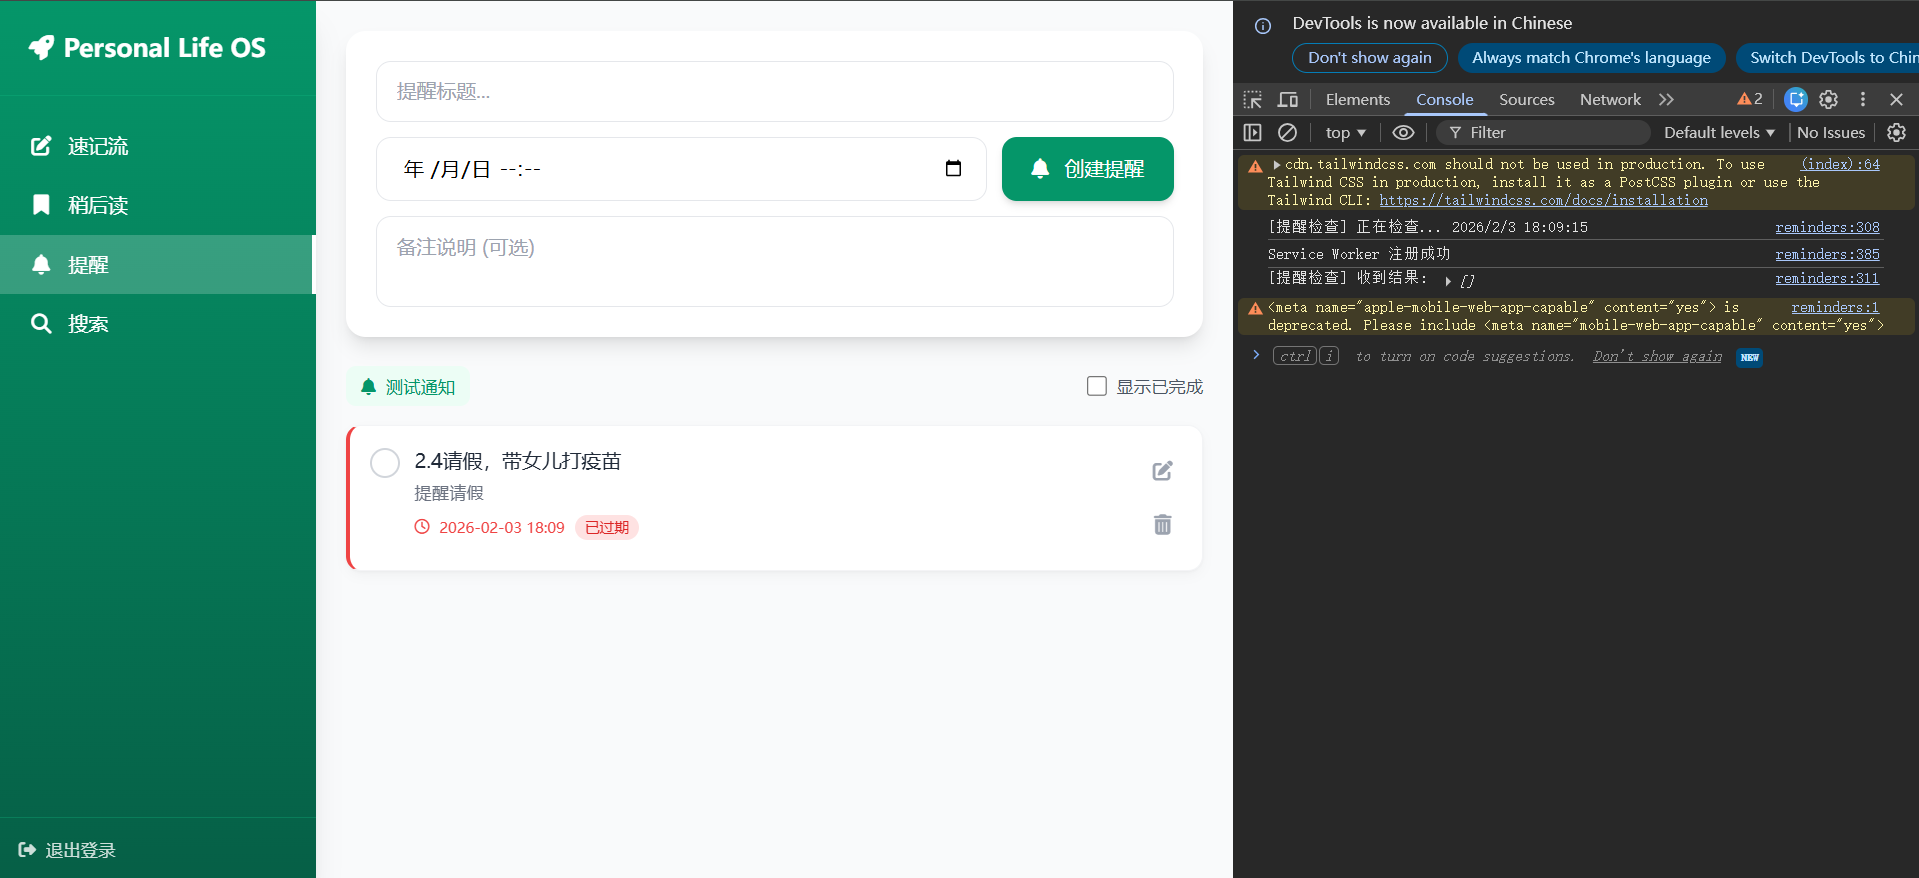
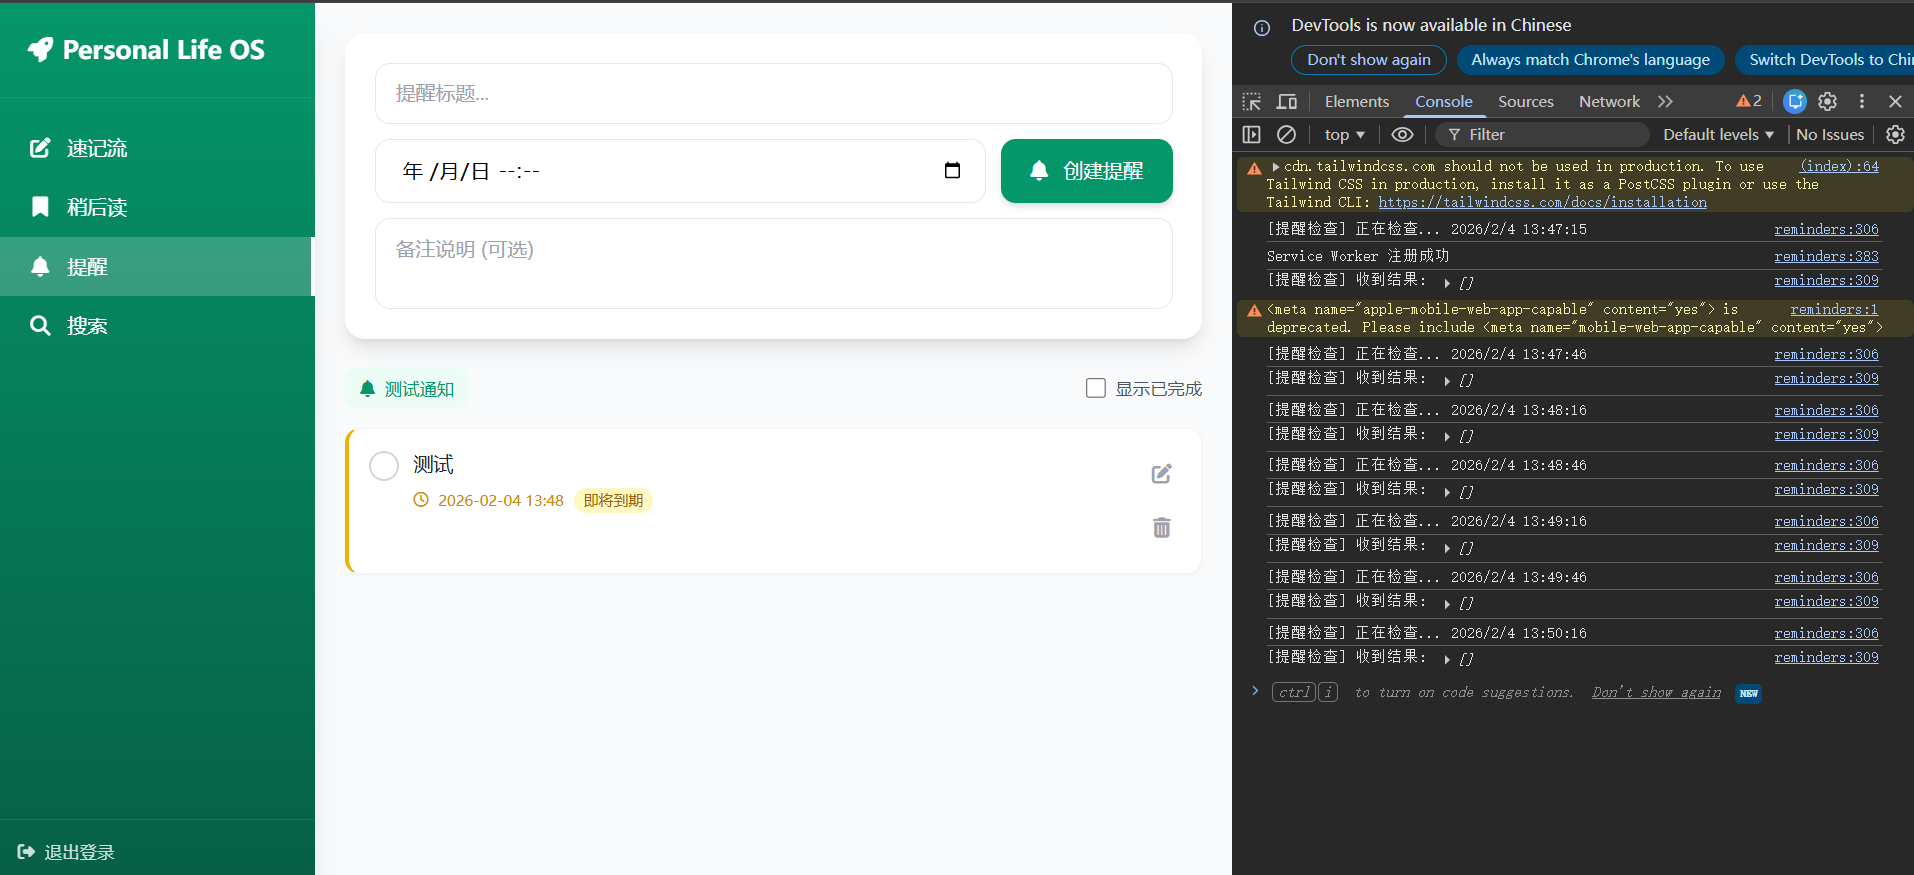
修复多设备提醒通知

diff --git a/templates/base.html b/templates/base.html
@@ -215,8 +215,19 @@
                     const reminders = await response.json();
                     console.log('[提醒检查] 收到结果:', reminders);
 
-                    if (reminders.length > 0) {
-                        reminders.forEach(r => {
+                    // 获取本设备已通知的提醒ID列表
+                    let notifiedIds = JSON.parse(localStorage.getItem('notifiedReminders') || '[]');
+
+                    // 清理过期的已通知记录（只保留最近100个）
+                    if (notifiedIds.length > 100) {
+                        notifiedIds = notifiedIds.slice(-100);
+                    }
+
+                    let hasNewReminder = false;
+                    reminders.forEach(r => {
+                        // 检查这个提醒在本设备是否已通知
+                        const reminderId = `${r.id}-${r.target_time}`;
+                        if (!notifiedIds.includes(reminderId)) {
                             console.log('[提醒检查] 发送通知:', r.title);
                             const sent = this.sendNotification(r.title, r.description);
                             console.log('[提醒检查] 通知发送结果:', sent);
@@ -225,7 +236,17 @@
                             if (!sent) {
                                 alert('⏰ 提醒: ' + r.title + '\n' + (r.description || ''));
                             }
-                        });
+
+                            // 记录已通知
+                            notifiedIds.push(reminderId);
+                            hasNewReminder = true;
+                        }
+                    });
+
+                    // 保存已通知列表
+                    localStorage.setItem('notifiedReminders', JSON.stringify(notifiedIds));
+
+                    if (hasNewReminder) {
                         this.playSound();
                     }
                 } catch (e) {
@@ -294,6 +315,51 @@
 
         // 暴露测试函数供手动调用
         window.testNotification = () => NotificationManager.testNotification();
+
+        // ========== 多设备同步 ==========
+        const SyncManager = {
+            localVersions: {},
+
+            // 检查数据版本
+            async checkVersions() {
+                try {
+                    const response = await fetch('/api/data-version');
+                    const serverVersions = await response.json();
+
+                    // 获取当前页面模块
+                    const path = window.location.pathname;
+                    let currentModule = null;
+                    if (path.includes('/memos')) currentModule = 'memos';
+                    else if (path.includes('/bookmarks')) currentModule = 'bookmarks';
+                    else if (path.includes('/reminders')) currentModule = 'reminders';
+
+                    // 检查当前模块是否有更新
+                    if (currentModule && this.localVersions[currentModule] !== undefined) {
+                        if (serverVersions[currentModule] > this.localVersions[currentModule]) {
+                            console.log(`[同步] ${currentModule} 有更新，刷新页面...`);
+                            window.location.reload();
+                            return;
+                        }
+                    }
+
+                    // 更新本地版本号
+                    this.localVersions = serverVersions;
+                } catch (e) {
+                    console.error('[同步] 检查失败:', e);
+                }
+            },
+
+            // 启动同步
+            start() {
+                // 首次获取版本号
+                this.checkVersions();
+                // 每15秒检查一次
+                setInterval(() => this.checkVersions(), 15000);
+            }
+        };
+
+        // 启动同步
+        SyncManager.start();
     </script>
     {% endif %}
 </body>

diff --git a/app.py b/app.py
@@ -4,7 +4,7 @@ from datetime import datetime, timezone, timedelta
 from flask import Flask, render_template, request, redirect, url_for, flash, jsonify
 from flask_login import LoginManager, login_user, logout_user, login_required, current_user
 from config import Config
-from models import db, User, Memo, Bookmark, Reminder
+from models import db, User, Memo, Bookmark, Reminder, DataVersion
 
 # 创建 Flask 应用
 app = Flask(__name__)
@@ -87,6 +87,7 @@ def add_memo():
         memo = Memo(content=content, tags=tags)
         db.session.add(memo)
         db.session.commit()
+        DataVersion.bump('memos')
     
     # HTMX 请求返回新增的单条记录 HTML
     if request.headers.get('HX-Request'):
@@ -101,6 +102,7 @@ def delete_memo(id):
     memo = Memo.query.get_or_404(id)
     db.session.delete(memo)
     db.session.commit()
+    DataVersion.bump('memos')
     return '', 200
 
 
@@ -117,6 +119,7 @@ def edit_memo(id):
             memo.content = content
             memo.tags = tags
             db.session.commit()
+            DataVersion.bump('memos')
         
         if request.headers.get('HX-Request'):
             return render_template('partials/memo_item.html', memo=memo)
@@ -158,6 +161,7 @@ def add_bookmark():
         bookmark = Bookmark(url=url, title=title, description=description)
         db.session.add(bookmark)
         db.session.commit()
+        DataVersion.bump('bookmarks')
         
         if request.headers.get('HX-Request'):
             return render_template('partials/bookmark_item.html', bookmark=bookmark)
@@ -172,6 +176,7 @@ def update_bookmark_status(id):
     new_status = request.form.get('status', 'unread')
     bookmark.status = new_status
     db.session.commit()
+    DataVersion.bump('bookmarks')
     
     if request.headers.get('HX-Request'):
         return render_template('partials/bookmark_item.html', bookmark=bookmark)
@@ -185,6 +190,7 @@ def delete_bookmark(id):
     bookmark = Bookmark.query.get_or_404(id)
     db.session.delete(bookmark)
     db.session.commit()
+    DataVersion.bump('bookmarks')
     return '', 200
 
 
@@ -203,6 +209,7 @@ def edit_bookmark(id):
             bookmark.title = title or url
             bookmark.description = description
             db.session.commit()
+            DataVersion.bump('bookmarks')
         
         if request.headers.get('HX-Request'):
             return render_template('partials/bookmark_item.html', bookmark=bookmark)
@@ -267,6 +274,7 @@ def add_reminder():
         reminder = Reminder(title=title, description=description, target_datetime=target_datetime)
         db.session.add(reminder)
         db.session.commit()
+        DataVersion.bump('reminders')
         
         if request.headers.get('HX-Request'):
             return render_template('partials/reminder_item.html', reminder=reminder)
@@ -280,6 +288,7 @@ def toggle_reminder(id):
     reminder = Reminder.query.get_or_404(id)
     reminder.is_done = not reminder.is_done
     db.session.commit()
+    DataVersion.bump('reminders')
     
     if request.headers.get('HX-Request'):
         return render_template('partials/reminder_item.html', reminder=reminder)
@@ -293,6 +302,7 @@ def delete_reminder(id):
     reminder = Reminder.query.get_or_404(id)
     db.session.delete(reminder)
     db.session.commit()
+    DataVersion.bump('reminders')
     return '', 200
 
 
@@ -313,6 +323,7 @@ def edit_reminder(id):
             # 修改时间后重置通知状态，这样可以重新触发通知
             reminder.notified = False
             db.session.commit()
+            DataVersion.bump('reminders')
         
         if request.headers.get('HX-Request'):
             return render_template('partials/reminder_item.html', reminder=reminder)
@@ -328,23 +339,29 @@ def edit_reminder(id):
 @app.route('/api/pending-reminders')
 @login_required
 def api_pending_reminders():
-    """检查是否有到期的提醒 (用于浏览器通知)"""
+    """检查是否有到期的提醒 (用于浏览器通知)
+    
+    改为返回所有未完成且已过期的提醒，由客户端自行管理已通知状态
+    这样每个设备都能收到通知
+    """
     # 使用北京时间 (UTC+8)
     beijing_tz = timezone(timedelta(hours=8))
-    now = datetime.now(beijing_tz).replace(tzinfo=None)  # 转为naive datetime进行比较
+    now = datetime.now(beijing_tz).replace(tzinfo=None)
     
+    # 返回所有到期且未完成的提醒（不检查 notified 状态）
     pending = Reminder.query.filter(
         Reminder.target_datetime <= now,
-        Reminder.is_done == False,
-        Reminder.notified == False
+        Reminder.is_done == False
     ).all()
     
     result = []
     for r in pending:
-        result.append({'id': r.id, 'title': r.title, 'description': r.description or ''})
-        # 发送微信推送
-        send_pushplus_notification(r.title, r.description or '提醒时间已到')
-        r.notified = True
+        result.append({
+            'id': r.id, 
+            'title': r.title, 
+            'description': r.description or '',
+            'target_time': r.target_datetime.strftime('%Y-%m-%d %H:%M')
+        })
     
     db.session.commit()
     return jsonify(result)
@@ -386,6 +403,13 @@ def api_debug_reminders():
         'server_time': now.strftime('%Y-%m-%d %H:%M:%S'),
         'reminders': result
     })
+
+
+@app.route('/api/data-version')
+@login_required
+def api_data_version():
+    """获取所有模块的数据版本号，用于多设备同步"""
+    return jsonify(DataVersion.get_all_versions())
 
 
 def send_pushplus_notification(title, content):

diff --git a/models.py b/models.py
@@ -57,3 +57,32 @@ class Reminder(db.Model):
 
     def __repr__(self):
         return f'<Reminder {self.title}>'
+
+
+class DataVersion(db.Model):
+    """数据版本号 - 用于多设备同步"""
+    id = db.Column(db.Integer, primary_key=True)
+    module = db.Column(db.String(50), unique=True, nullable=False)  # memos, bookmarks, reminders
+    version = db.Column(db.Integer, default=0)
+    updated_at = db.Column(db.DateTime, default=datetime.utcnow, onupdate=datetime.utcnow)
+
+    @staticmethod
+    def bump(module_name):
+        """增加指定模块的版本号"""
+        dv = DataVersion.query.filter_by(module=module_name).first()
+        if not dv:
+            dv = DataVersion(module=module_name, version=1)
+            db.session.add(dv)
+        else:
+            dv.version += 1
+        db.session.commit()
+        return dv.version
+
+    @staticmethod
+    def get_all_versions():
+        """获取所有模块的版本号"""
+        versions = {}
+        for dv in DataVersion.query.all():
+            versions[dv.module] = dv.version
+        return versions
+
